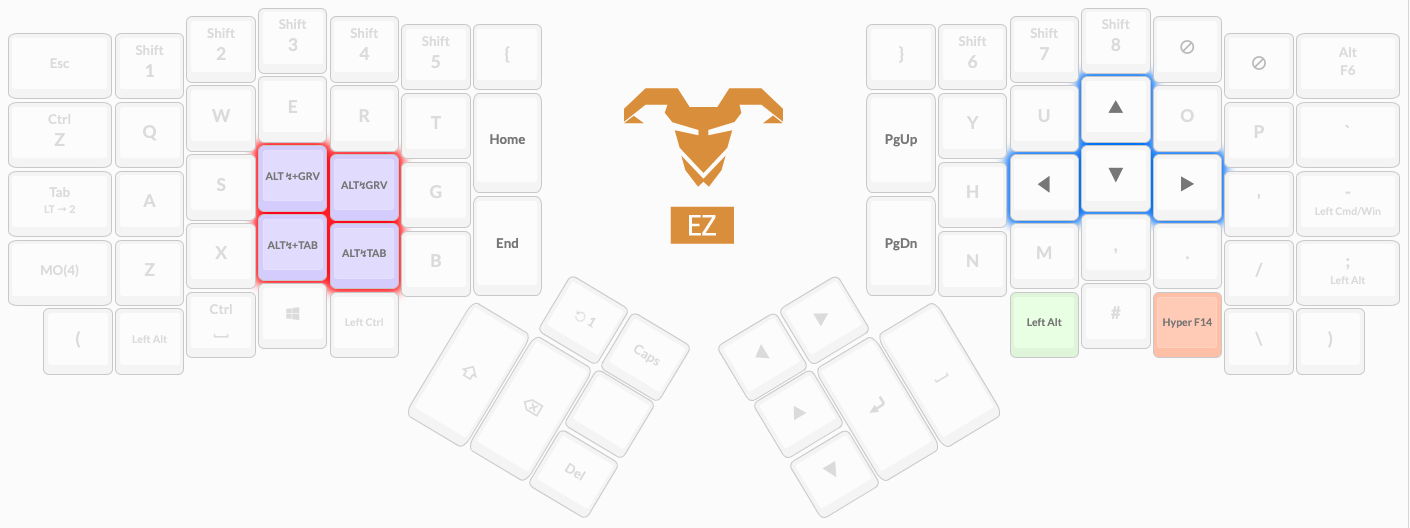
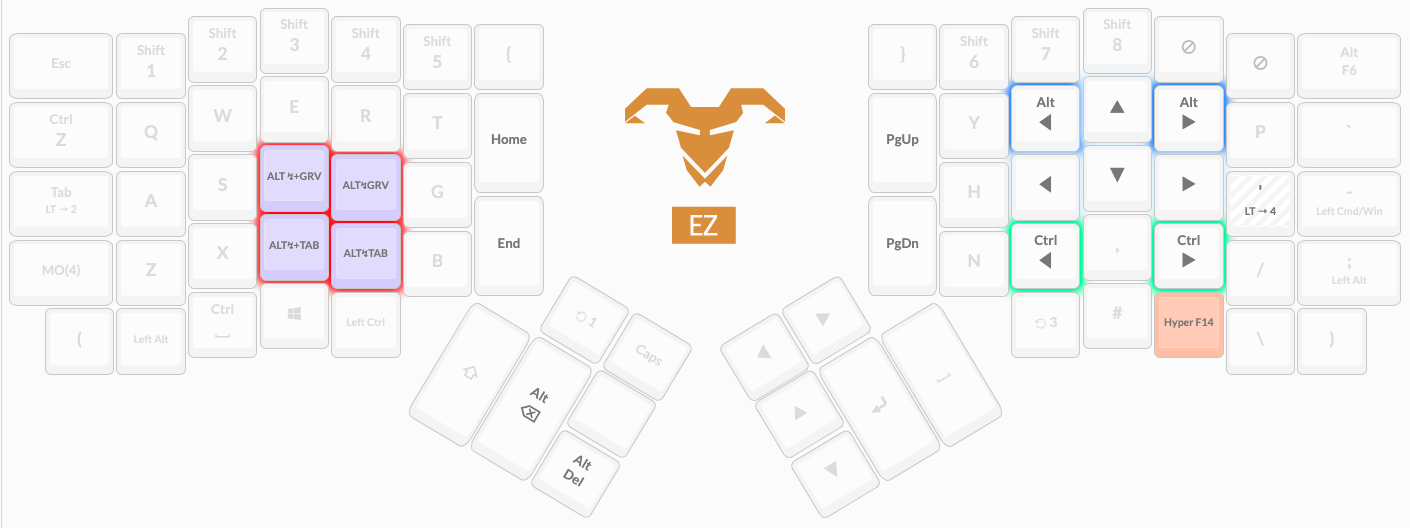
more arrow key changes

diff --git a/keyboards/ergodox_ez/keymaps/stoneman/keymap.c b/keyboards/ergodox_ez/keymaps/stoneman/keymap.c
@@ -61,7 +61,7 @@ const uint16_t PROGMEM keymaps[][MATRIX_ROWS][MATRIX_COLS] = {
     KC_ESCAPE,      LSFT(KC_1),     LSFT(KC_2),     LSFT(KC_3),     LSFT(KC_4),     LSFT(KC_5),     KC_LCBR,                                        KC_RCBR,        LSFT(KC_6),     LSFT(KC_7),     LSFT(KC_8),     KC_LBRACKET,    KC_RBRACKET,    MUTE_DOTA_TOGGLE,
     LCTL(KC_Z),     KC_Q,           KC_W,           KC_E,           KC_R,           KC_T,           KC_PLUS,                                        KC_NONUS_PIPE,  KC_Y,           KC_U,           KC_I,           KC_O,           KC_P,           KC_GRAVE,
     LT(2,KC_TAB),   KC_A,           KC_S,           KC_D,           KC_F,           KC_G,                                                                           KC_H,           KC_J,           KC_K,           KC_L,           KC_QUOTE,       LGUI_T(KC_MINUS),
-    MO_4,           KC_Z,           KC_X,           KC_C,           KC_V,           KC_B,           KC_NONUS_TILD,                                  KC_EQUAL,       KC_N,           KC_M,           KC_COMMA,       KC_DOT,         KC_SLASH,       LALT_T(KC_SCOLON),
+    MO_4,           KC_Z,           KC_X,           KC_C,           KC_V,           KC_B,           KC_NONUS_TILD,                                  KC_EQUAL,       KC_N,           KC_M,           KC_COMMA,       KC_DOT,         LT(4,KC_SLASH), LALT_T(KC_SCOLON),
     KC_LPRN,        KC_LALT,        LCTL(KC_SPACE), KC_LGUI,        KC_LCTRL,                                                                                                       MO(3),          KC_LALT_HASH,  KC_HYPER_F10,    KC_NONUS_BSLASH,KC_RPRN,
                                                                                                     MO(1),          KC_CAPSLOCK,    KC_LEFT,        KC_RIGHT,
                                                                                                                     KC_TRANSPARENT, KC_UP,
@@ -99,13 +99,13 @@ const uint16_t PROGMEM keymaps[][MATRIX_ROWS][MATRIX_COLS] = {
   ),
   [4] = LAYOUT_ergodox_pretty(
     KC_TRANSPARENT, KC_TRANSPARENT, KC_TRANSPARENT, KC_TRANSPARENT, KC_TRANSPARENT, KC_TRANSPARENT, KC_TRANSPARENT,                                 KC_TRANSPARENT, KC_TRANSPARENT, KC_TRANSPARENT, KC_TRANSPARENT, KC_TRANSPARENT, KC_TRANSPARENT, KC_TRANSPARENT,
-    KC_TRANSPARENT, KC_TRANSPARENT, KC_TRANSPARENT, KC_TRANSPARENT, KC_TRANSPARENT, KC_TRANSPARENT, KC_HOME,                                        KC_PGUP,        KC_TRANSPARENT, KC_TRANSPARENT, KC_UP,          KC_TRANSPARENT, KC_TRANSPARENT, KC_TRANSPARENT,
+    KC_TRANSPARENT, KC_TRANSPARENT, KC_TRANSPARENT, KC_TRANSPARENT, KC_TRANSPARENT, KC_TRANSPARENT, KC_HOME,                                        KC_PGUP,        KC_TRANSPARENT, LALT(KC_LEFT),  KC_UP,          LALT(KC_RIGHT), KC_TRANSPARENT, KC_TRANSPARENT,
     KC_TRANSPARENT, KC_TRANSPARENT, KC_TRANSPARENT, ALT_SHIFT_GRV,  ALT_GRV,        KC_TRANSPARENT,                                                                 KC_TRANSPARENT, KC_LEFT,        KC_DOWN,        KC_RIGHT,       KC_TRANSPARENT, KC_TRANSPARENT,
-    KC_TRANSPARENT, MACRO_CHZ,      KC_TRANSPARENT, ALT_SHIFT_TAB,  ALT_TAB,        KC_TRANSPARENT, KC_END,                                         KC_PGDOWN,      KC_TRANSPARENT, KC_TRANSPARENT, KC_TRANSPARENT, KC_TRANSPARENT, KC_TRANSPARENT, KC_TRANSPARENT,
+    KC_TRANSPARENT, MACRO_CHZ,      KC_TRANSPARENT, ALT_SHIFT_TAB,  ALT_TAB,        KC_TRANSPARENT, KC_END,                                         KC_PGDOWN,      KC_TRANSPARENT, LCTL(KC_LEFT),  KC_TRANSPARENT, LCTL(KC_RIGHT), KC_TRANSPARENT, KC_TRANSPARENT,
     KC_TRANSPARENT, KC_TRANSPARENT, KC_TRANSPARENT, KC_TRANSPARENT, KC_TRANSPARENT,                                                                                                 KC_LALT,        KC_TRANSPARENT, KC_HYPER_F14,   KC_TRANSPARENT, KC_TRANSPARENT,
                                                                                                     KC_TRANSPARENT, KC_TRANSPARENT, KC_TRANSPARENT, KC_TRANSPARENT,
                                                                                                                     KC_TRANSPARENT, KC_TRANSPARENT,
-                                                                                    KC_TRANSPARENT, KC_TRANSPARENT, KC_TRANSPARENT, KC_TRANSPARENT, KC_TRANSPARENT, KC_LCTL
+                                                                                    KC_TRANSPARENT, LALT(KC_BSPACE),LALT(KC_DELETE), KC_TRANSPARENT, KC_TRANSPARENT, KC_LCTL
   ),
   [5] = LAYOUT_ergodox_pretty(
     KC_TRANSPARENT, KC_1,           KC_2,           KC_3,           KC_4,           KC_5,           KC_F7,                                          KC_TRANSPARENT, KC_6,           KC_7,           KC_8,           KC_9,           KC_0,           KC_TRANSPARENT,
@@ -132,11 +132,11 @@ const uint8_t PROGMEM ledmap[][DRIVER_LED_TOTAL][3] = {
 
     [1] = { {0,255,255}, {0,255,255}, {0,255,255}, {0,255,255}, {0,255,255}, {0,0,0}, {0,0,0}, {0,0,0}, {0,0,0}, {0,0,0}, {0,0,0}, {0,0,0}, {0,0,0}, {0,0,0}, {0,0,0}, {0,0,0}, {0,0,0}, {0,0,0}, {0,0,0}, {0,0,0}, {0,0,0}, {0,0,0}, {0,0,0}, {0,0,0}, {0,255,255}, {0,255,255}, {0,255,255}, {0,255,255}, {0,255,255}, {0,0,0}, {0,0,0}, {154,255,255}, {154,255,255}, {154,255,255}, {105,255,255}, {105,255,255}, {105,255,255}, {105,255,255}, {0,0,0}, {0,0,0}, {0,0,0}, {0,0,0}, {0,0,0}, {0,0,0}, {0,0,0}, {0,0,0}, {0,0,0}, {0,0,0} },
 
-    [2] = { {0,0,0}, {0,0,0}, {0,0,0}, {0,0,0}, {0,0,0}, {0,0,0}, {0,0,0}, {0,0,0}, {0,0,0}, {0,0,0}, {0,0,0}, {0,0,0}, {0,0,0}, {0,0,0}, {0,0,0}, {0,0,0}, {0,0,0}, {0,0,0}, {0,0,0}, {0,0,0}, {0,0,0}, {0,0,0}, {0,0,0}, {0,0,0}, {0,0,0}, {105,255,255}, {105,255,255}, {0,0,0}, {0,0,0}, {105,255,255}, {105,255,255}, {105,255,255}, {105,255,255}, {0,0,0}, {105,255,255}, {105,255,255}, {105,255,255}, {105,255,255}, {0,0,0}, {105,255,255}, {105,255,255}, {105,255,255}, {105,255,255}, {0,0,0}, {105,255,255}, {105,255,255}, {0,0,0}, {0,0,0} },
+    [2] = { {0,0,0}, {0,0,0}, {0,0,0}, {0,0,0}, {0,0,0}, {0,0,0}, {0,0,0}, {0,0,0}, {0,0,0}, {0,0,0}, {0,0,0}, {154,255,255}, {0,0,0}, {154,255,255}, {0,0,0}, {0,0,0}, {0,0,0}, {0,0,0}, {0,0,0}, {0,0,0}, {0,0,0}, {0,0,0}, {0,0,0}, {0,0,0}, {0,0,0}, {105,255,255}, {105,255,255}, {0,0,0}, {0,0,0}, {105,255,255}, {105,255,255}, {105,255,255}, {105,255,255}, {0,0,0}, {105,255,255}, {105,255,255}, {105,255,255}, {105,255,255}, {0,0,0}, {105,255,255}, {105,255,255}, {105,255,255}, {105,255,255}, {0,0,0}, {105,255,255}, {105,255,255}, {0,0,0}, {0,0,0} },
 
     [3] = { {0,0,255}, {0,0,255}, {0,0,255}, {0,0,255}, {0,0,255}, {0,0,0}, {0,0,255}, {0,0,255}, {0,0,255}, {154,255,255}, {0,0,0}, {0,0,255}, {0,0,255}, {0,0,255}, {154,255,255}, {0,0,0}, {0,0,255}, {0,0,0}, {0,255,255}, {154,255,255}, {0,0,0}, {0,0,0}, {0,0,0}, {0,0,0}, {0,0,255}, {0,0,255}, {0,0,255}, {0,0,255}, {0,0,255}, {0,0,0}, {0,0,0}, {0,0,0}, {0,0,0}, {0,0,0}, {0,0,0}, {0,0,0}, {0,0,0}, {0,0,0}, {0,0,0}, {0,0,0}, {0,0,0}, {0,0,0}, {0,0,0}, {0,0,0}, {0,0,0}, {0,0,0}, {0,0,0}, {0,0,0} },
 
-    [4] = { {0,0,0}, {0,0,0}, {0,0,0}, {0,0,0}, {0,0,0}, {0,0,0}, {0,0,0}, {154,255,255}, {0,0,0}, {0,0,0}, {0,0,255}, {154,255,255}, {154,255,255}, {154,255,255}, {0,0,255}, {0,0,0}, {0,0,0}, {0,0,0}, {0,0,0}, {0,0,0}, {0,0,0}, {0,0,0}, {0,0,0}, {0,0,0}, {0,0,0}, {0,0,0}, {0,0,0}, {0,0,0}, {0,0,0}, {0,0,0}, {0,0,0}, {0,0,0}, {0,0,0}, {0,0,0}, {0,0,0}, {0,255,255}, {0,255,255}, {0,0,0}, {0,0,0}, {0,0,0}, {0,255,255}, {0,255,255}, {0,0,0}, {0,0,0}, {0,0,0}, {0,0,0}, {0,0,0}, {0,0,0} },
+    [4] = { {0,0,0}, {0,0,0}, {0,0,0}, {0,0,0}, {0,0,0}, {0,0,0}, {154,255,255}, {0,0,255}, {154,255,255}, {0,0,0}, {0,0,0}, {0,0,255}, {0,0,0}, {0,0,255}, {0,0,0}, {0,0,0}, {105,255,255}, {0,0,0}, {105,255,255}, {0,0,0}, {0,0,0}, {0,0,0}, {0,0,0}, {0,0,0}, {0,0,0}, {0,0,0}, {0,0,0}, {0,0,0}, {0,0,0}, {0,0,0}, {0,0,0}, {0,0,0}, {0,0,0}, {0,0,0}, {0,0,0}, {0,255,255}, {0,255,255}, {0,0,0}, {0,0,0}, {0,0,0}, {0,255,255}, {0,255,255}, {0,0,0}, {0,0,0}, {0,0,0}, {0,0,0}, {0,0,0}, {0,0,0} },
 
     [5] = { {0,255,255}, {0,255,255}, {0,255,255}, {0,255,255}, {0,255,255}, {0,255,255}, {10,255,255}, {10,255,255}, {10,255,255}, {0,255,255}, {0,255,255}, {10,255,255}, {35,255,255}, {10,255,255}, {0,255,255}, {0,255,255}, {10,255,255}, {10,255,255}, {10,255,255}, {0,255,255}, {0,255,255}, {0,255,255}, {0,255,255}, {0,255,255}, {0,255,255}, {0,255,255}, {0,255,255}, {0,255,255}, {0,255,255}, {0,255,255}, {10,255,255}, {10,255,255}, {10,255,255}, {0,255,255}, {0,255,255}, {10,255,255}, {35,255,255}, {10,255,255}, {0,255,255}, {0,255,255}, {10,255,255}, {10,255,255}, {10,255,255}, {0,255,255}, {0,255,255}, {0,255,255}, {0,255,255}, {0,255,255} },
 

diff --git a/readme.md b/readme.md
@@ -102,7 +102,7 @@ LEDs highlight groups of keys which perform a similar function.
 
   - The `ALT↯TAB` and `ALT↯+TAB` keys are used for switching windows, natively on Windows and using [Alt-Tab](https://github.com/lwouis/alt-tab-macos) on the Mac.
   - Alt-Tab on the Mac also uses the `ALT↯GRV` and `ALT↯+GRV` keys to cycle through windows of the currently focused window.
-  - There are also arrow keys and a handily positioned `Alt` key on this layer.
+  - There are also arrow keys on this layer, including `Alt`/`Ctrl` modified `Left`/`Right` keys, and `Alt`-modified `Backspace` and `Delete` keys.
   
 ### Layer 3 - Dota
 
